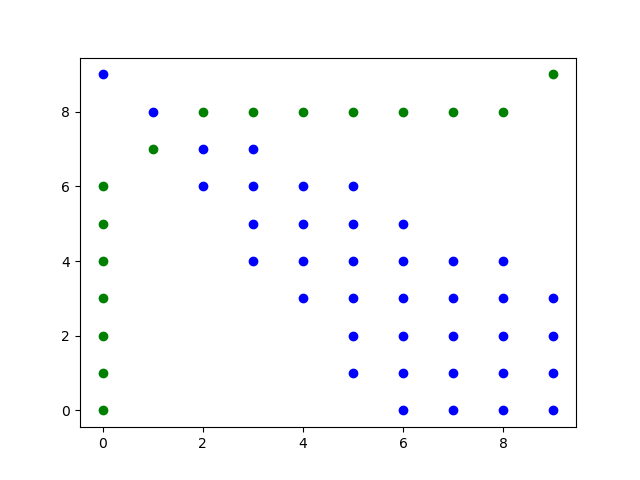
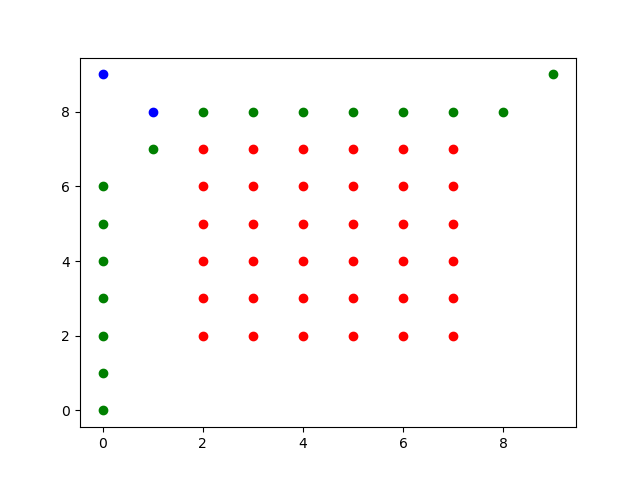
Obstacles implemented !

diff --git a/upwind.py b/upwind.py
@@ -13,6 +13,7 @@ def main_U(N, x0, xf, camera_list, obstacle_list):
     # nfconstant must be higher than the maximum distance between two points in the grid, so...
     nfconstant = 1.5
     o = obstacle_list
+    obstacle_points = obstacles_list_to_points(o)
 
     # W = np.zeros((N, N, 2))
     W = np.zeros((N, N))
@@ -21,23 +22,20 @@ def main_U(N, x0, xf, camera_list, obstacle_list):
     # Cameras setting
     ###############################
     camera_points = []
-    # for each point x in the grid
-    for i in range(N):
-        for j in range(N):
-            for cam in camera_list:
-                # if x is in the scope of the camera, i.e. if the vector x - cam is in the cone defined by the camera
-                if (i != cam[0][0] or j != cam[0][1]) and np.dot((np.array([i, j]) - cam[0])/np.linalg.norm(np.array([i, j]) - cam[0]), np.array([np.cos(cam[1]), np.sin(cam[1])])) > np.cos(cam[2]/2):
-                    # print("(i,j) = ", i, j)
-                    # W[i, j] = 1. * (x0 - np.array([i, j]))/np.linalg.norm(x0 - np.array([i, j]))
-                    W[i, j] += 1.
-                    camera_points.append(np.array([i, j]))
+    for cam in camera_list:
+        # compute visible points
+        visible_points = compute_camera_visible_points(cam, o, N)
+        for point in visible_points:
+            W[point[0], point[1]] += 1
+            camera_points.append(np.array(point))
+                    
     # set W for cam
     for cam in camera_list:
         cam_x = cam[0][0]
         cam_y = cam[0][1]
         # W[cam_x, cam_y] = - 1. * cam/np.linalg.norm(cam)
         W[cam_x, cam_y] += 1.
-
+    W = np.zeros((N, N))
     # f = lambda x, u: np.exp(W[int(x[0]), int(x[1])])
     # f = lambda x, u: .01 * (len(camera_list) + 1. - W[int(x[0]), int(x[1])])
     f = lambda x, u: 1/(W[int(x[0]), int(x[1])] + .1)
@@ -85,20 +83,20 @@ def main_U(N, x0, xf, camera_list, obstacle_list):
                         break
 
 
-    Accepted_Front = compute_AcceptedFront(M, o)
+    Accepted_Front = compute_AcceptedFront(M, obstacle_points)
     AF = compute_AF(M, Accepted_Front)
     for i in range(N):
         for j in range(N):
             if M[i, j] == 1:
                 x_NF = compute_NF(np.array([i, j]), AF)
                 for couple in x_NF:
-                    # if U is not infinity and both points of couple are not (i,j)
-                    if U[couple[0][0], couple[0][1]] != np.inf and U[couple[1][0], couple[1][1]] != np.inf and (couple[0][0] != i or couple[0][1] != j) and (couple[1][0] != i or couple[1][1] != j):
+                    # if U is not infinity and both points of couple are not (i,j) and (i,j) is not in obstacle
+                    if U[couple[0][0], couple[0][1]] != np.inf and U[couple[1][0], couple[1][1]] != np.inf and (couple[0][0] != i or couple[0][1] != j) and (couple[1][0] != i or couple[1][1] != j) and not np_belongs(np.array([i, j]), obstacle_points):
                         new_u, history = compute_U(np.array([i, j]), couple[0], couple[1], U[couple[0][0], couple[0][1]], U[couple[1][0], couple[1][1]], f, history)
                         U[i, j] = np.min([U[i, j], new_u])
 
 
-    AcceptedFront = compute_AcceptedFront(M, o)
+    AcceptedFront = compute_AcceptedFront(M, obstacle_points)
     AF = compute_AF(M, AcceptedFront)
 
     for _ in tqdm(range(N*N)):
@@ -107,31 +105,35 @@ def main_U(N, x0, xf, camera_list, obstacle_list):
         smallest_U_point = np.array([0, 0])
         for i in range(N):
             for j in range(N):
-                if M[i, j] == 1 and U[i, j] <= smallest_U and not np_belongs(np.array([i, j]), o):
+                if M[i, j] == 1 and U[i, j] <= smallest_U and not np_belongs(np.array([i, j]), obstacle_points):
                     smallest_U = U[i, j]
                     smallest_U_point = np.array([i, j])
         # print("smallest_U_point: ", smallest_U_point)
         # move the point to accepted
         M[smallest_U_point[0], smallest_U_point[1]] = 0
         # update AF
-        AcceptedFront = compute_AcceptedFront(M, o)
+        AcceptedFront = compute_AcceptedFront(M, obstacle_points)
         AF = compute_AF(M, AcceptedFront)
         # move far points adjacent to the accepted point to considered
         neighbors = [np.array([smallest_U_point[0]-1, smallest_U_point[1]]), np.array([smallest_U_point[0]+1, smallest_U_point[1]]), np.array([smallest_U_point[0], smallest_U_point[1]-1]), np.array([smallest_U_point[0], smallest_U_point[1]+1]), np.array([smallest_U_point[0]-1, smallest_U_point[1]-1]), np.array([smallest_U_point[0]-1, smallest_U_point[1]+1]), np.array([smallest_U_point[0]+1, smallest_U_point[1]-1]), np.array([smallest_U_point[0]+1, smallest_U_point[1]+1])]
         for neighbor in neighbors:
             # if neighbor is in bounds and is far and is not in o
-            if neighbor[0] >= 0 and neighbor[0] < N and neighbor[1] >= 0 and neighbor[1] < N and M[neighbor[0], neighbor[1]] == 2 and not np_belongs(neighbor, o):
+            if neighbor[0] >= 0 and neighbor[0] < N and neighbor[1] >= 0 and neighbor[1] < N and M[neighbor[0], neighbor[1]] == 2 and not np_belongs(neighbor, obstacle_points):
                 M[neighbor[0], neighbor[1]] = 1
         # for all considered points within distance maxdist from x and not in o, recompute U
         for i in range(N):
             for j in range(N):
-                if M[i, j] == 1 and not np_belongs(np.array([i, j]), o):
+                if M[i, j] == 1 and not np_belongs(np.array([i, j]), obstacle_points):
                     x_NF = compute_NF(np.array([i, j]), AF)
                     for couple in x_NF:
                         # if U is not infinity and both points of couple are different from x
                         if U[couple[0][0], couple[0][1]] != np.inf and U[couple[1][0], couple[1][1]] != np.inf and not np.array_equal(couple[0], np.array([i, j])) and not np.array_equal(couple[1], np.array([i, j])):
                             new_u, history = compute_U(np.array([i, j]), couple[0], couple[1], U[couple[0][0], couple[0][1]], U[couple[1][0], couple[1][1]], f, history)
                             U[i, j] = np.min([U[i, j], new_u])
+    # mark all obstacle points asa accepted
+    for obstacle_point in obstacle_points:
+        M[obstacle_point[0], obstacle_point[1]] = 0
+    
     # verify there is no more considered point with exists_considered
     assert not exists_considered(M)[0]
     print("U computed.")

diff --git a/utils.py b/utils.py
@@ -17,6 +17,88 @@ def cost_path(path):
         cost += np.linalg.norm(path[i] - path[i+1])
     return cost
 
+def grid_to_real_coordinates(x, N, L):
+    # convert coordinates from 0 to N-1 to coordinates from -L to L
+    return 2 * L * x / (N - 1) - L
+
+def grid_to_real_length(c, N, L):
+    # convert length from 0 to N-1 to length from -L to L
+    return 2 * L * c / (N - 1)
+
+def square_points(obstacle):
+    # returns the list of points of the square obstacle
+    # obstacle is (x1, y1, c) where (x1, y1) is the lower left corner of the square and c is the side length
+    obstacle_points = []
+    for i in range(obstacle[2]):
+        for j in range(obstacle[2]):
+            obstacle_points.append(np.array([obstacle[0] + i, obstacle[1] + j]))
+    return obstacle_points
+
+def obstacles_list_to_points(obstacle_list):
+    # from list of obstacles, returns the list of points of the obstacles
+    obstacle_list_points = []
+    for obstacle in obstacle_list:
+        obstacle_list_points += square_points(obstacle)
+    return obstacle_list_points
+
+def belongs_to_square(obstacle, point):
+    # obstacle is (x1, y1, c) where (x1, y1) is the lower left corner of the square and c is the side length
+    # point is (x, y)
+    # returns True if point is in the square
+    # returns False otherwise
+    if obstacle[0] <= point[0] <= obstacle[0] + obstacle[2] and obstacle[1] <= point[1] <= obstacle[1] + obstacle[2]:
+        return True
+    return False
+
+def segment_intersects_segment(point_1, point_2, point_3, point_4):
+    # Returns True if the segment [point_1, point_2] intersects the segment [point_3, point_4]
+    # Returns False otherwise
+    denominator = (point_4[1] - point_3[1]) * (point_2[0] - point_1[0]) - (point_4[0] - point_3[0]) * (point_2[1] - point_1[1])
+    if denominator == 0:
+        return False
+    ua = ((point_4[0] - point_3[0]) * (point_1[1] - point_3[1]) - (point_4[1] - point_3[1]) * (point_1[0] - point_3[0])) / denominator
+    ub = ((point_2[0] - point_1[0]) * (point_1[1] - point_3[1]) - (point_2[1] - point_1[1]) * (point_1[0] - point_3[0])) / denominator
+    if 0 <= ua <= 1 and 0 <= ub <= 1:
+        return True
+    return False
+
+
+def segment_intersects_square(point_1, point_2, square):
+    # Returns True if the segment [point_1, point_2] intersects the square
+    # Returns False otherwise
+    # square is a list of 4 points
+    # square[0] is the lower left corner
+    # square[1] is the lower right corner
+    # square[2] is the upper right corner
+    # square[3] is the upper left corner
+    # square[0] = square[4]
+    for i in range(4):
+        if segment_intersects_segment(point_1, point_2, square[i], square[i+1]):
+            return True
+    return False
+
+def compute_camera_visible_points(cam, obstacles_list, N):
+    # returns a list of points visible from the camera when obstacles are squares
+    visible_points = []
+    # for each point in the grid
+    for i in range(N):
+        for j in range(N):
+            point = np.array([i, j])
+            # if the point is in the camera scope where the camera is defined by (pos, theta, angle)
+            if (i != cam[0][0] or j != cam[0][1]) and np.dot((np.array([i, j]) - cam[0])/np.linalg.norm(np.array([i, j]) - cam[0]), np.array([np.cos(cam[1]), np.sin(cam[1])])) > np.cos(cam[2]/2):
+                # check if the point is visible from the camera
+                visible = True
+                for obstacle in obstacles_list:
+                    # obstacle is (x1, y1, c) where (x1, y1) are the coordinates of the lower left corner of the obstacle and c is the square side
+                    square = np.array([[obstacle[0], obstacle[1]], [obstacle[0] + obstacle[2], obstacle[1]], [obstacle[0] + obstacle[2], obstacle[1] + obstacle[2]], [obstacle[0], obstacle[1] + obstacle[2]], [obstacle[0], obstacle[1]]])
+                    if segment_intersects_square(cam[0], point, square):
+                        visible = False
+                        break
+                if visible:
+                    visible_points.append(point)
+    return visible_points
+
+
 # NF(x) is the set of segments [xj, xk] where [xj, xk] is in AF, and there exists x' on [xj, xk] such that x' is at distance at most nfconstant from x
 def compute_NF(x, AF):
     nfconstant = 1.5
@@ -136,3 +218,21 @@ def compute_U(x, xj, xk, uj, uk, f, history):
     if x[0] == 8 and x[1] == 8:
         print("res", res)
     return res, history
+
+# # testing compute_camera_visible_points
+# N = 10
+# camera = [np.array([0, 0]), np.pi/4, 0.8]
+# obstacles_list = [[4, 4, 2]]
+# print(compute_camera_visible_points(camera, obstacles_list, N))
+# # visualize with matplotlib
+# import matplotlib.pyplot as plt
+# plt.scatter([camera[0][0]], [camera[0][1]], color='red')
+# for obstacle in obstacles_list:
+#     # obstacle is (x1, y1, c) where (x1, y1) are the coordinates of the lower left corner of the obstacle and c is the square side
+#     plt.scatter([obstacle[0]], [obstacle[1]], color='black')
+#     plt.scatter([obstacle[0] + obstacle[2]], [obstacle[1]], color='black')
+#     plt.scatter([obstacle[0]], [obstacle[1] + obstacle[2]], color='black')
+#     plt.scatter([obstacle[0] + obstacle[2]], [obstacle[1] + obstacle[2]], color='black')
+# for point in compute_camera_visible_points(camera, obstacles_list, N):
+#     plt.scatter([point[0]], [point[1]], color='green')
+# plt.show()

diff --git a/visualization.py b/visualization.py
@@ -1,7 +1,8 @@
-from matplotlib.patches import Polygon, Circle
+from matplotlib.patches import Polygon, Circle, Rectangle
 import numpy as np
 import matplotlib.pyplot as plt
 from path_finder import path_finder
+from utils import *
 
 # Code adapted from a code snippet by Yann Dubois de Mont-Martin
 
@@ -58,6 +59,13 @@ def visualization(N, camera_list, obstacle_list, pos_start=np.array([-2., -2.]),
     #     lw=0
     # ))
 
+    # plot square obstacles
+    for obs in obstacle_list:
+        # obs is in the form (x, y, c) where (x, y) is the position of the lower left corner and c is the side length
+        obs_point = np.array([obs[0], obs[1]])
+        width, height = obs[2], obs[2]
+        obs_1_plt = ax.add_patch(Rectangle(obs_point, width, height))
+
     # example traj
     xls = np.linspace(x_min, x_max, N)
     yls = np.linspace(y_min, y_max, N)
@@ -76,11 +84,19 @@ def visualization(N, camera_list, obstacle_list, pos_start=np.array([-2., -2.]),
     xf = xf.astype(int)
 
     # defining obstacles
-        # defining obstacles
-    obstacle_list = []
-    # for i in range(3, 8):
-    #     for j in range(3, 8):
-    #         o.append(np.array([i, j]))
+    grid_obstacle_list = []
+    # convert obstacle_list with real values between -2 and 2 to grid values between 0 and N-1
+    for obs in obstacle_list:
+        obs_radius = obs[2]
+        # convert obs_pos to grid
+        obs_x = (obs[0] - x_min) / (x_max - x_min) * (N - 1)
+        obs_y = (obs[1] - y_min) / (y_max - y_min) * (N - 1)
+        obs_rad_grid = obs_radius / (x_max - x_min) * (N - 1)
+        # convert to int
+        obs_x = int(obs_x)
+        obs_y = int(obs_y)
+        obs_radius = int(obs_rad_grid)
+        grid_obstacle_list.append([obs_x, obs_y, obs_radius])
 
     # defining cameras
     camera_list_grid = []
@@ -96,7 +112,7 @@ def visualization(N, camera_list, obstacle_list, pos_start=np.array([-2., -2.]),
         cam_y = int(cam_y)
         cam_ind = np.array([cam_x, cam_y])
         camera_list_grid.append([cam_ind, cam_orient, cam_angle])
-    path = path_finder(N, x0, xf, camera_list_grid, obstacle_list)
+    path = path_finder(N, x0, xf, camera_list_grid, grid_obstacle_list)
     print(path)
 
     # convert to real values
@@ -127,6 +143,7 @@ def visualization(N, camera_list, obstacle_list, pos_start=np.array([-2., -2.]),
 if __name__ == "__main__":
     N = 10
     # camera_list = [[np.array([-2., 2.]), -np.pi/4, 0.8]]
-    camera_list = [[np.array([-2, -2.]), 1., .5], [np.array([-2, -2.]), .6, .5]]
-    obstacle_list = []
+    # camera_list = [[np.array([-2, -2.]), 1., .5], [np.array([-2, -2.]), .6, .5]]
+    camera_list = []
+    obstacle_list = [[grid_to_real_coordinates(N//2, N, 2.), grid_to_real_coordinates(N//2, N, 2.), grid_to_real_length(2, N, 2.)]]
     visualization(N, camera_list, obstacle_list)

diff --git a/path_finder.py b/path_finder.py
@@ -1,7 +1,7 @@
 import numpy as np
 import matplotlib.pyplot as plt
 from upwind import main_U
-from utils import cost_path
+from utils import *
 import time
 import argparse
 
@@ -48,8 +48,8 @@ def path_finder(N, x0, xf, camera_list, obstacle_list, saveU=0):
 # main
 if __name__ == "__main__":
     parser = argparse.ArgumentParser(description='Parsing command line arguments.')
-    parser.add_argument("--visualize", type=int, default=0)
-    parser.add_argument("--saveU", type=int, default=0)
+    parser.add_argument("--visualize", type=int, default=1)
+    parser.add_argument("--saveU", type=int, default=1)
     parser.add_argument("--N", type=int, default=10)
 
     args = parser.parse_args()
@@ -63,9 +63,9 @@ if __name__ == "__main__":
     # defining obstacles
         # defining obstacles
     obstacle_list = []
-    # for i in range(3, 8):
-    #     for j in range(3, 8):
-    #         o.append(np.array([i, j]))
+    
+    # define a square obstacle
+    obstacle_list.append([N//2 - 3, N//2 - 3, 6])
 
     # defining cameras
     # camera_list = []
@@ -88,14 +88,12 @@ if __name__ == "__main__":
 
     if visualize:
         camera_points = []
-        # for each point x in the grid
-        for i in range(N):
-            for j in range(N):
-                for camera in camera_list:
-                    cam, theta, alpha = camera
-                    # if x is in the scope of the camera, i.e. if the vector x - cam is in the cone defined by the camera
-                    if (i != cam[0] or j != cam[1]) and np.dot((np.array([i, j]) - cam)/np.linalg.norm(np.array([i, j]) - cam), np.array([np.cos(theta), np.sin(theta)])) > np.cos(alpha/2):
-                        camera_points.append(np.array([i, j]))
+        for cam in camera_list:
+            # compute visible points
+            visible_points = compute_camera_visible_points(cam, obstacle_list, N)
+            for point in visible_points:
+                camera_points.append(np.array(point))
+        
         for camera in camera_list:
             cam, theta, alpha = camera
             camera_points.append(cam)
@@ -106,7 +104,7 @@ if __name__ == "__main__":
         for i in range(len(path)):
             plt.plot(path[i][0], path[i][1], 'go')
         # visualize obstacle
-        for point in obstacle_list:
+        for point in obstacles_list_to_points(obstacle_list):
             plt.plot(point[0], point[1], 'ro')
         # visualize camera
         for point in camera_points:
